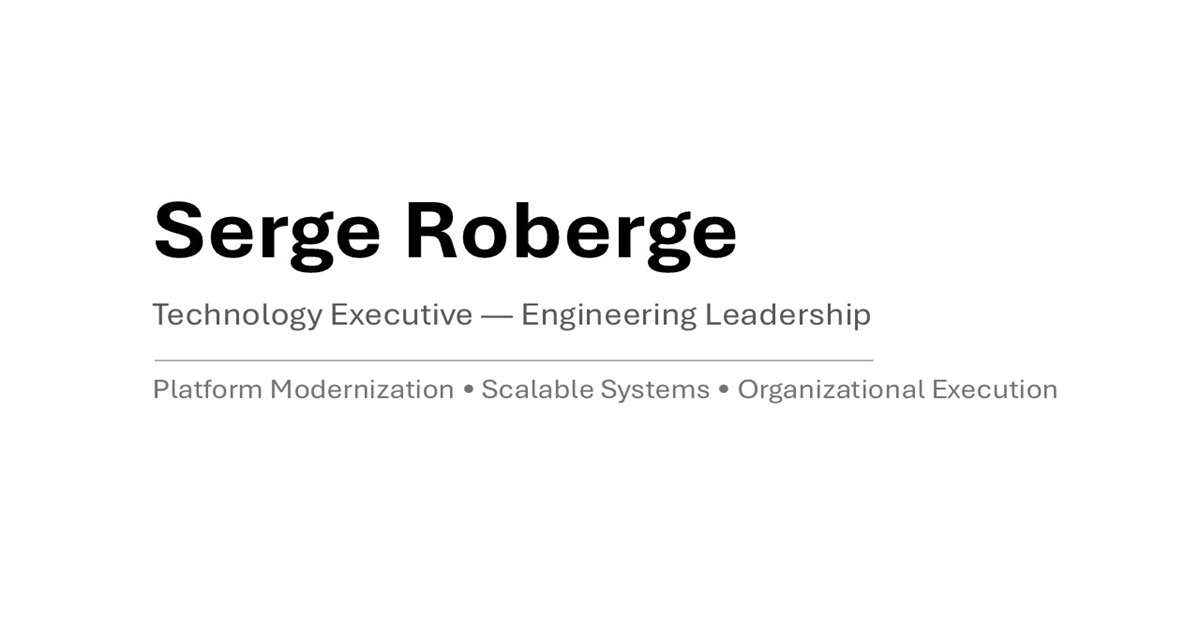
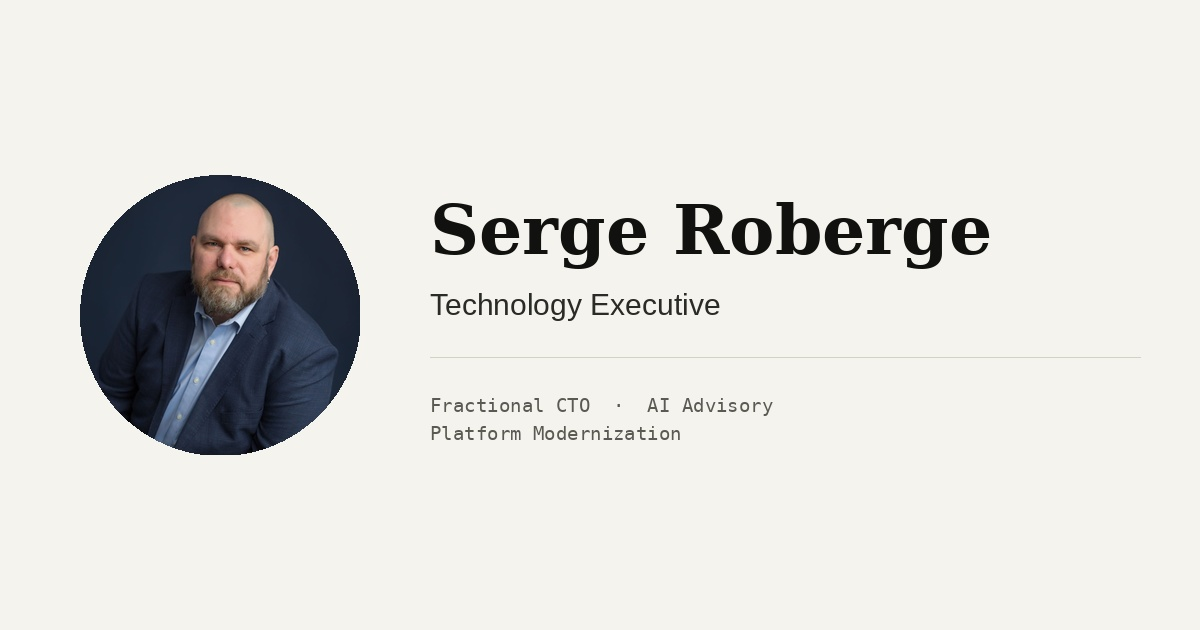
feat: update positioning, OG image with headshot, and refine services copy

Changed region(s): [[0.0617, 0.2714, 0.8942, 0.7238]]

diff --git a/src/styles/global.css b/src/styles/global.css
@@ -101,3 +101,13 @@ section {
   color: var(--ink);
   text-decoration: underline;
 }
+
+.headshot {
+  width: 96px;
+  height: 96px;
+  border-radius: 50%;
+  object-fit: cover;
+  object-position: center top;
+  margin: 1.5rem 0;
+  filter: grayscale(20%);
+}
